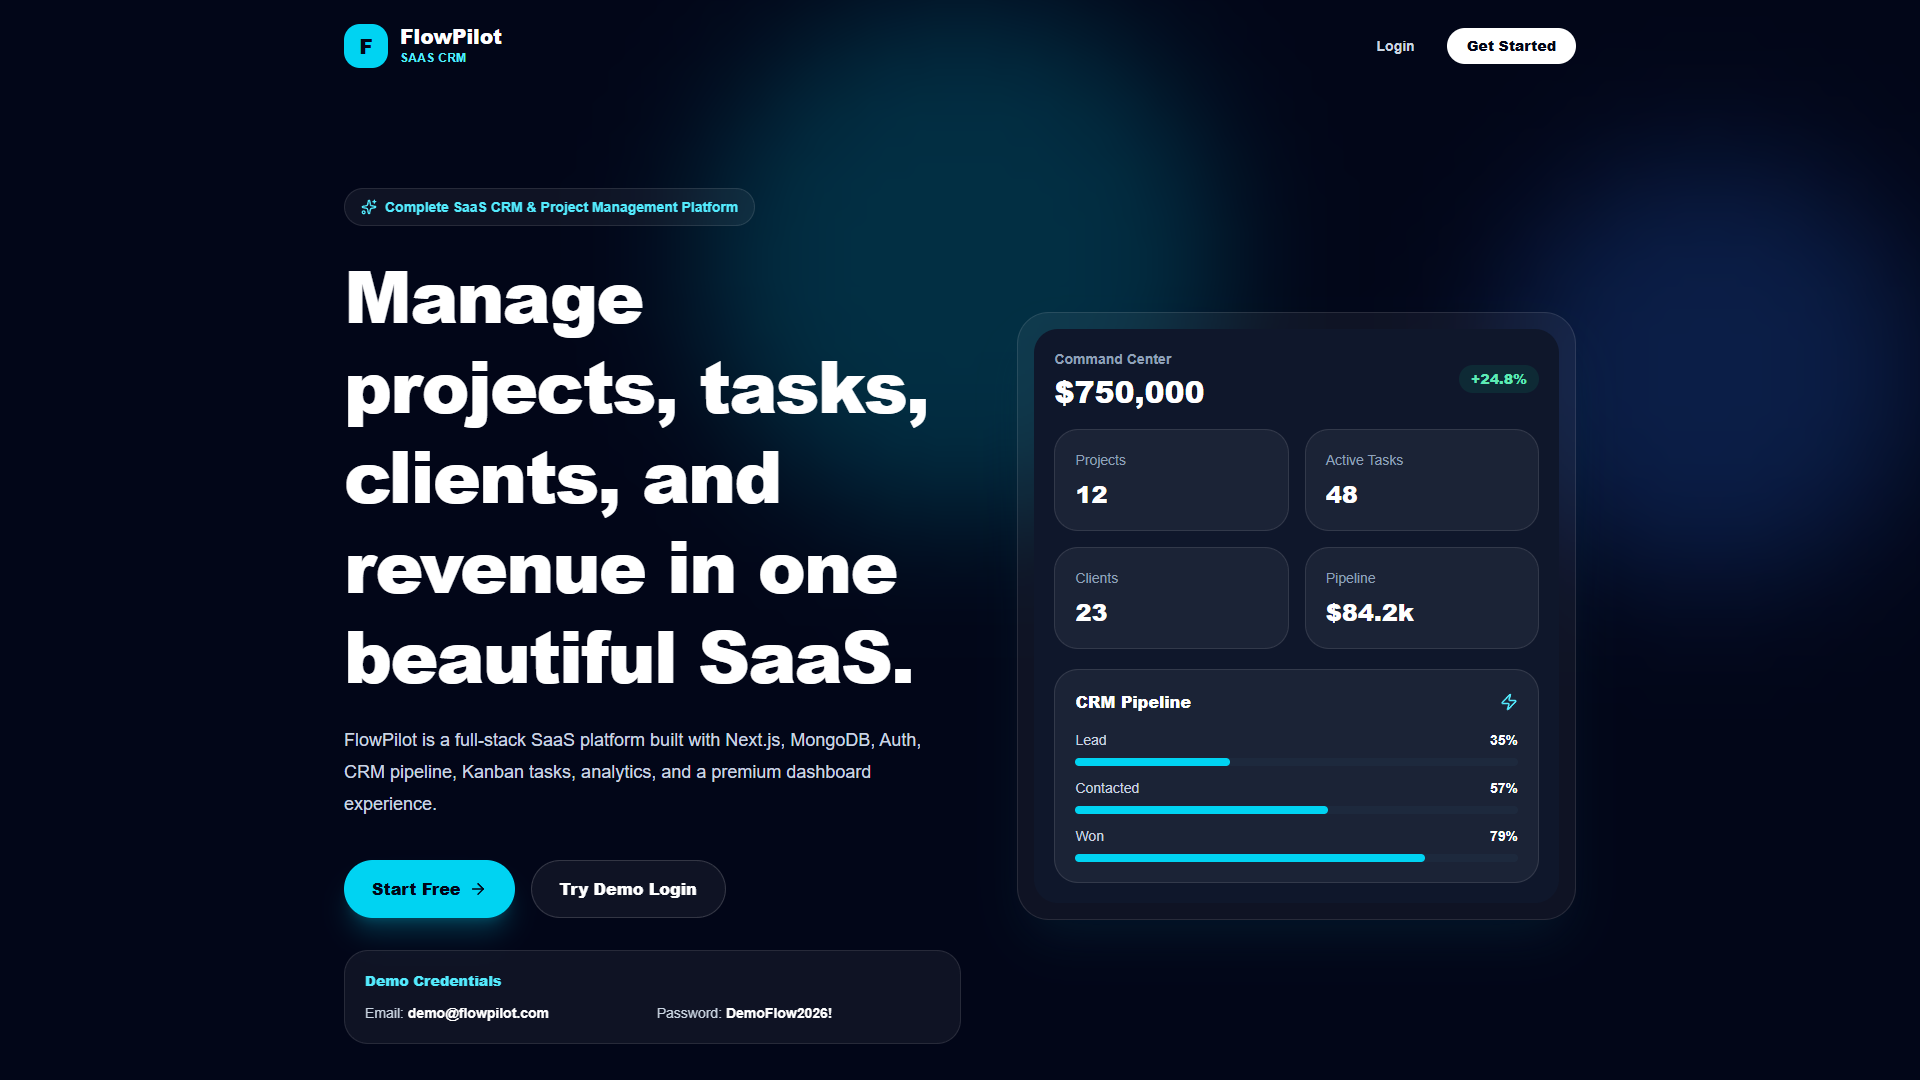
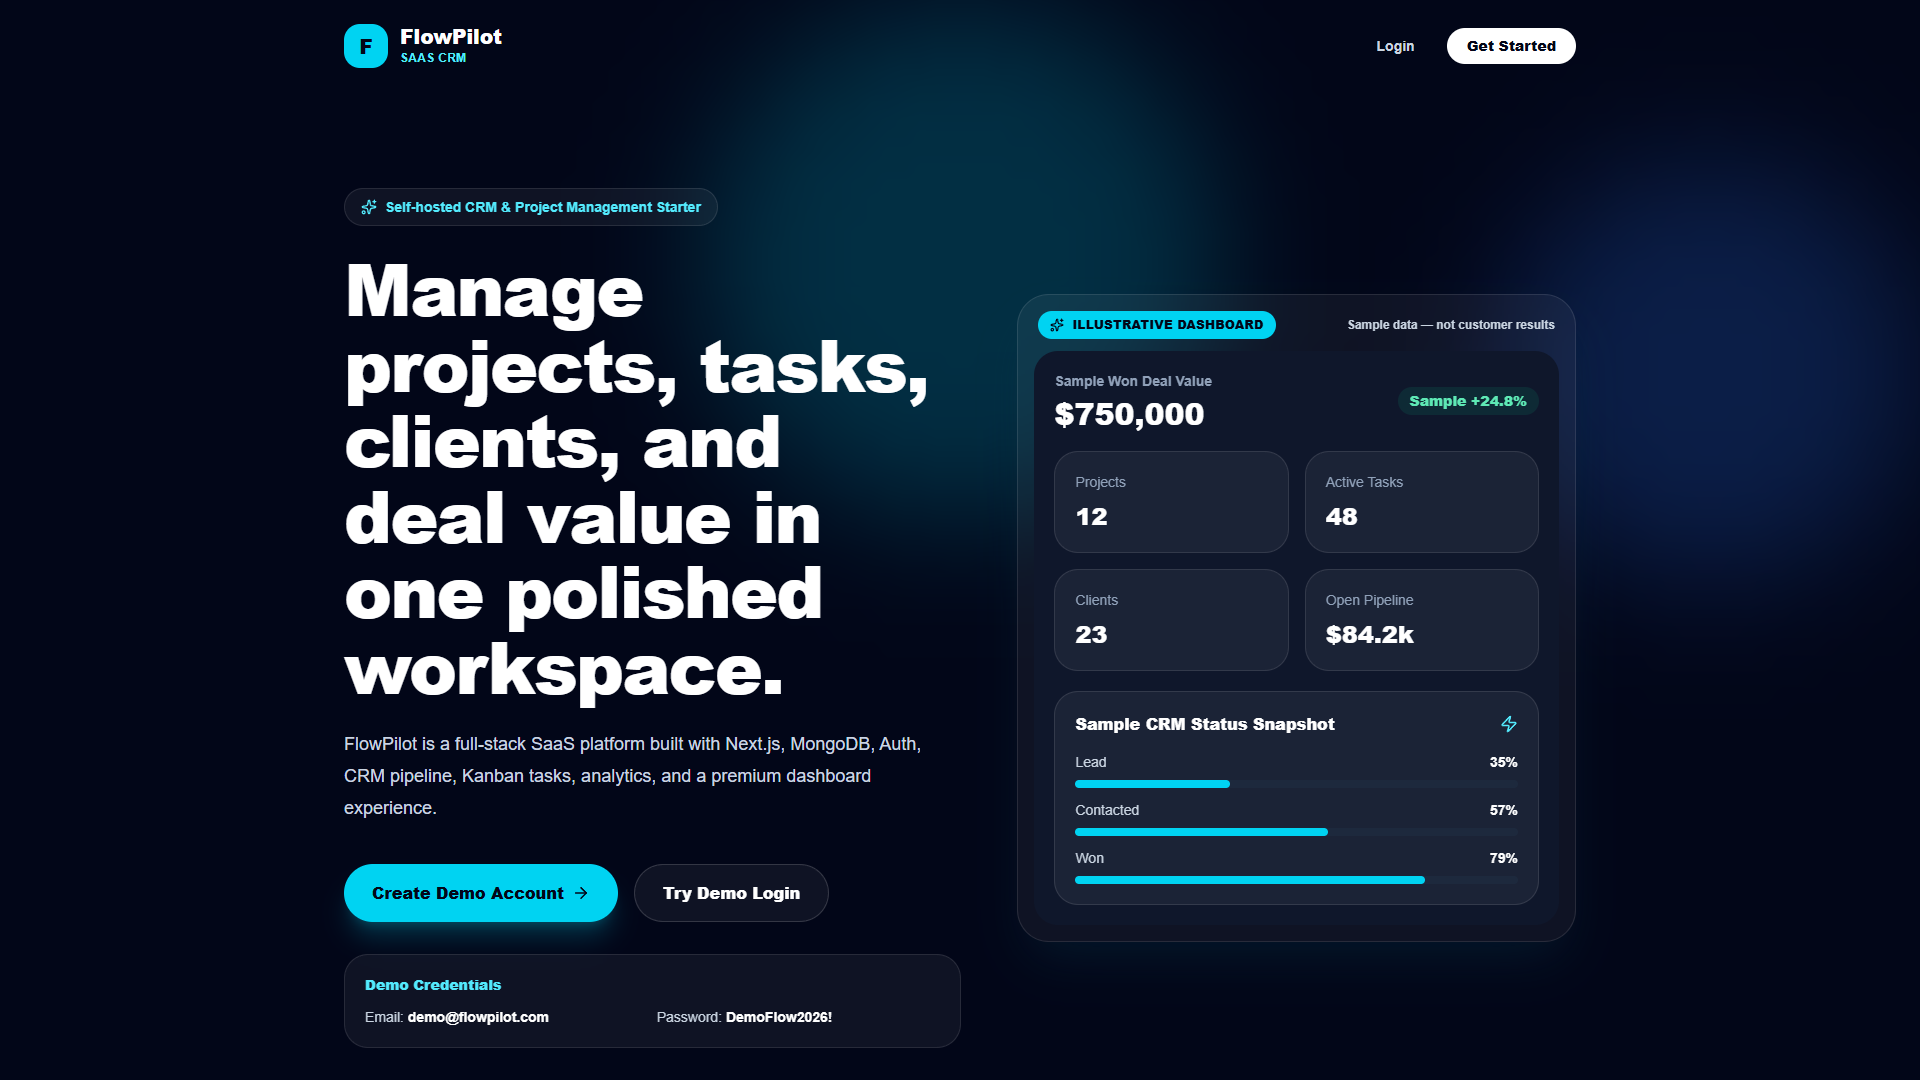
Refresh marketplace media and release evidence

diff --git a/FIX_REPORT.md b/FIX_REPORT.md
@@ -9,8 +9,8 @@ This report records what is implemented in the current source tree and separates
 | ID | Current status | Changes in 1.2.0 | Verification still required |
 |---|---|---|---|
 | R01: decimal USD values | IMPLEMENTED; AUTOMATED UNIT AND LOCAL BROWSER/DB ACCEPTANCE PASSED | Client create and edit inputs accept `0.01` increments and use decimal input hints. Server validation accepts ordinary nonnegative decimal strings with at most two fractional digits through `$1,000,000,000.00` and rejects exponent notation, non-finite values, negatives, extra precision, and out-of-range values. Exact amounts are stored in optional `Client.valueCents` as `BigInt`; cards, totals, overview metrics, analytics, and chart tooltips read integer cents and display two decimals. Existing documents without `valueCents` fall back to the legacy whole-dollar `value`. The guarded browser audit created, edited, reloaded, and then removed temporary `0`, `0.01`, `1250.50`, and upper-bound records; exact card values persisted. Native invalid cases and the 360px upper-bound card check passed. | The automated metric suite covers total/chart logic and server rejection cases. A human hover check of the final deployed chart tooltip remains part of final live review. |
-| R02: illustrative homepage figures | IMPLEMENTED IN SOURCE; LIVE DEPLOYMENT PENDING | The preview now carries prominent `Illustrative dashboard` and `Sample data — not customer results` disclosures. `$750k`, growth, project/task/client counts, pipeline figures, and stage data are described as sample values rather than adoption, earnings, or customer outcomes. | Confirm the disclosure remains visible at phone, tablet, and desktop widths after the 1.2 deployment and recapture marketplace screenshots from the live build. |
-| R03: production-readiness claim | IMPLEMENTED IN SOURCE AND DOCUMENTATION; LIVE DEPLOYMENT PENDING | Broad `Production-ready`/`Business-ready` wording was removed. Landing, README, setup guide, and listing now describe a self-hosted starter, verified workflow scope, operator responsibilities, and deployment prerequisites. No billing, invitation, automation, or security-certification claim was added. | Recheck the deployed landing page and final Vibe96 listing for old unqualified wording before submission. |
+| R02: illustrative homepage figures | IMPLEMENTED; LIVE RESPONSIVE CHECKS PASSED | The preview carries prominent `Illustrative dashboard` and `Sample data — not customer results` disclosures. `$750k`, growth, project/task/client counts, pipeline figures, and stage data are described as sample values rather than adoption, earnings, or customer outcomes. The disclosure remained visible in the scoped live responsive audit, and marketplace screenshots were recaptured from the deployed build. | Retain these disclosures in future marketing changes. |
+| R03: production-readiness claim | IMPLEMENTED; LIVE DEPLOYMENT VERIFIED | Broad `Production-ready`/`Business-ready` wording was removed. Landing, README, setup guide, and listing describe a self-hosted starter, verified workflow scope, operator responsibilities, and deployment prerequisites. No billing, invitation, automation, or security-certification claim was added. | Recheck claims after future feature or listing changes. |
 
 ## R04 verification matrix
 
@@ -24,8 +24,8 @@ R04 was a request for evidence, not a confirmed defect list. The statuses below 
 | Dependencies, secrets, licenses, and assets | PARTIALLY VERIFIED | Exact direct versions and the lockfile are present. `npm audit --omit=dev --json` reported zero production vulnerabilities. The vulnerable `deepmerge-ts` path is overridden to 8.0.2. Direct licenses and bundled-asset provenance are recorded in `THIRD_PARTY_NOTICES.md`; environment files are excluded from delivery patterns. | Full `npm audit` still reports five high-severity development-only findings through `eslint-config-next -> fast-glob -> micromatch -> braces`; `braces` has no patched release beyond the currently resolved line, so this is disclosed rather than hidden. Full Git-history secret scanning and an independent legal/license review are `NOT TESTED`. |
 | Responsive and accessibility | AUTOMATED CHECKS PASSED / MANUAL SCOPE OPEN | The source includes responsive layouts, a keyboard-operable mobile navigation dialog, visible focus styling, explicit form labels, progressbar semantics, a screen-reader chart summary, route metadata, dashboard `noindex`, and an automated accessibility audit script. The completed-tree accessibility audit passed 123/123 checks; the responsive audit passed 42/42 route/viewport combinations from 360px through 1440px, and the maximum money card also passed a 360px overflow check. | Safari/Firefox, physical touch devices, a full keyboard-only walkthrough, screen-reader use, automated contrast tooling, and 200% zoom are `NOT TESTED`. |
 | Loading, failure, and duplicate submission | IMPLEMENTED / CONTROLLED FAILURE SUITE OPEN | Loading routes, toast feedback, confirmation controls, pending-state submit components, authentication network-error recovery, and a dashboard retry boundary exist. | Controlled database outage/rollback, stale-write, slow-network, and repeated-submit testing across every form are `NOT TESTED`. |
-| Clean install and deployment | VERIFIED LOCALLY / VERCEL PENDING / DOCKER BLOCKED | A full `npm ci`, Prisma validation, unit tests, lint, production build, standalone asset preparation, server startup, and HTML/static-asset HTTP smoke test passed. Vercel/Docker prerequisites and schema-sync steps are documented. | The 1.2 Vercel deployment remains pending until this commit is pushed and reaches Ready. Docker build/runtime is `BLOCKED` because the Docker CLI is unavailable in the audit environment. A MongoDB replica set is required for the transaction used by project deletion. |
-| Listing, media, support, and demo operations | IN PREPARATION | Listing copy, setup, changelog, security policy, Vibe96-ticket support policy, third-party notices, and six screenshot slots are present. The seed requires explicit destructive confirmation, uses a persistent demo marker, recognizes only the documented legacy demo identity, and refuses an unrelated workspace. A direct safety test passed, and plain `npm run seed` refused as designed. | Regenerate live screenshots after deployment. Public-demo reset is a manual/operator-scheduled task; no scheduler is shipped. A sanitized release ZIP and final Vibe96 submission review remain pending. |
+| Clean install and deployment | VERIFIED LOCALLY / VERCEL READY / DOCKER BLOCKED | A full `npm ci`, Prisma validation, unit tests, lint, production build, standalone asset preparation, server startup, and HTML/static-asset HTTP smoke test passed. The pushed 1.2 commit reached Vercel `Ready`, and live accessibility/responsive audits passed. Vercel/Docker prerequisites and schema-sync steps are documented. | Docker build/runtime is `BLOCKED` because the Docker CLI is unavailable in the audit environment. A MongoDB replica set is required for the transaction used by project deletion. |
+| Listing, media, support, and demo operations | READY WITH DISCLOSED LIMITATIONS | Listing copy, setup, changelog, security policy, Vibe96-ticket support policy, third-party notices, and seven live 1920x1080 screenshot slots are present. The seed requires explicit destructive confirmation, uses a persistent demo marker, recognizes only the documented legacy demo identity, and refuses an unrelated workspace. A direct safety test passed, and plain `npm run seed` refused as designed. | Public-demo reset is a manual/operator-scheduled task; no scheduler is shipped. Final marketplace acceptance remains Vibe96's decision. |
 
 ## Monetary migration behavior
 
@@ -57,8 +57,8 @@ Back up the database before applying the release. See `HowToSetup.md` for the co
 
 1. Back up the intended database and run `npx prisma db push` before directing production traffic to 1.2.
 2. Run an isolated two-account authorization/IDOR suite and add deployment-appropriate login/registration rate limiting.
-3. Deploy 1.2, verify demo credentials, and schedule a restricted reset of the dedicated demo workspace without connecting it to customer data.
-4. Re-capture the six 1920×1080 marketplace screenshots from the final live build and keep all sample-data disclosures visible.
-5. Test Docker on a capable host, review repository history for secrets, and package a sanitized source archive.
+3. Schedule a restricted reset of the dedicated demo workspace without connecting it to customer data.
+4. Keep the seven live 1920×1080 marketplace screenshots and all sample-data disclosures current.
+5. Test Docker on a capable host and complete an independent repository-history secret scan.
 
 No marketplace approval score, income estimate, security certification, or sales guarantee is asserted.

diff --git a/AUDIT_REPORT.md b/AUDIT_REPORT.md
@@ -50,7 +50,7 @@ The affected path is not imported by the application runtime, but the full audit
 | Controlled two-account workspace/IDOR suite | NOT TESTED | Source scoping was reviewed, but isolated accounts must attempt cross-workspace reads, writes, nested-resource actions, deletes, and analytics requests. |
 | Login/registration rate limiting | NOT IMPLEMENTED / NOT TESTED | Configure a durable edge/shared limiter or implement one appropriate to the hosting topology before a high-risk public deployment. |
 | Forced failure/retry and duplicate-submit suite | PARTIALLY IMPLEMENTED / NOT FULLY TESTED | Pending submit controls, auth network-error recovery, and a dashboard retry boundary are implemented. Database outage, rollback, stale-write, slow-network, and repeated-submit behavior across every form still require controlled testing. |
-| Current 1.2 Vercel deployment | PENDING | The public URL represents the previously deployed build until the completed release is pushed and reaches Ready. |
+| Current 1.2 Vercel deployment | PASS | Commit `81b3059` reached Vercel `Ready`; the live accessibility audit passed 123/123 checks and the live responsive audit passed 42/42 route/viewport combinations. |
 | Docker build and container smoke test | BLOCKED | Docker CLI is unavailable in the current audit environment. The documented route must be tested on a Docker-capable host. |
 | Demo reset operations | GUARDED / MANUAL | The unconfirmed seed command refused as designed, demo identity tests passed, and the reset uses a persistent marker plus restricted legacy fallback. The application includes no scheduler; the owner must run or schedule resets safely. |
 | Repository-history secret scan | NOT TESTED | Delivery ignores environment files and no production credentials are intentionally included; an independent full-history scan remains an owner action. |

diff --git a/VIBE96_LISTING.md b/VIBE96_LISTING.md
@@ -61,9 +61,10 @@ The application does not schedule the demo reset itself; that remains a manual o
 
 1. Landing page hero and product preview
 2. Main dashboard with KPI cards and recent projects
-3. Project details and four-column Kanban board
-4. CRM pipeline with lead cards and deal values
-5. Analytics dashboard with chart
-6. Workspace settings and team roles
+3. Projects overview
+4. Project details and four-column Kanban board
+5. CRM pipeline with lead cards and deal values
+6. Analytics dashboard with chart
+7. Workspace settings and team roles
 
 Use only real screens from the live product; do not include browser extensions, personal bookmarks, credentials, or customer data. The landing-page preview contains illustrative sample figures and an in-frame disclosure; keep that disclosure visible and do not present those figures as customer results, adoption, or earnings.
